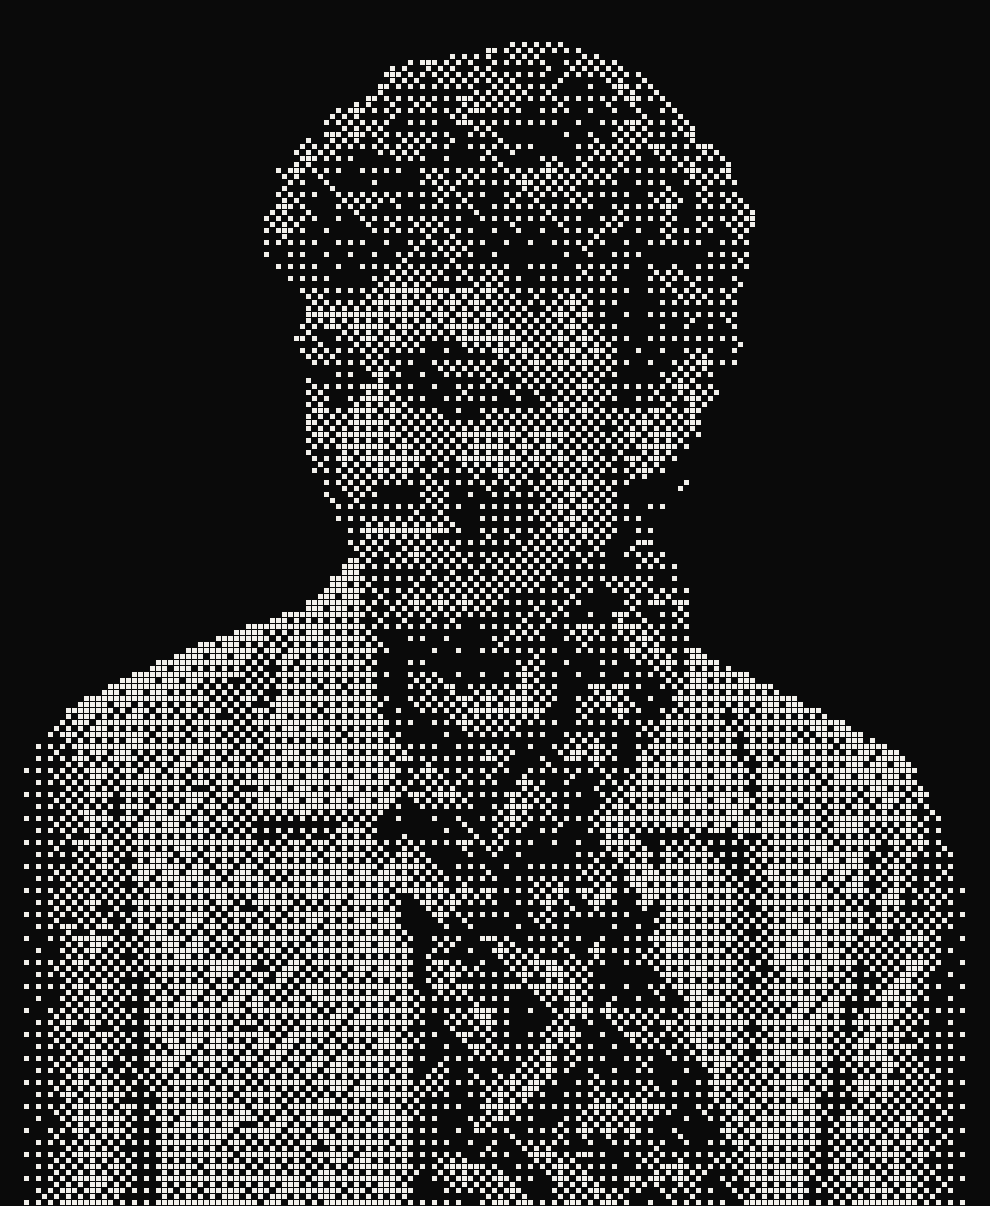
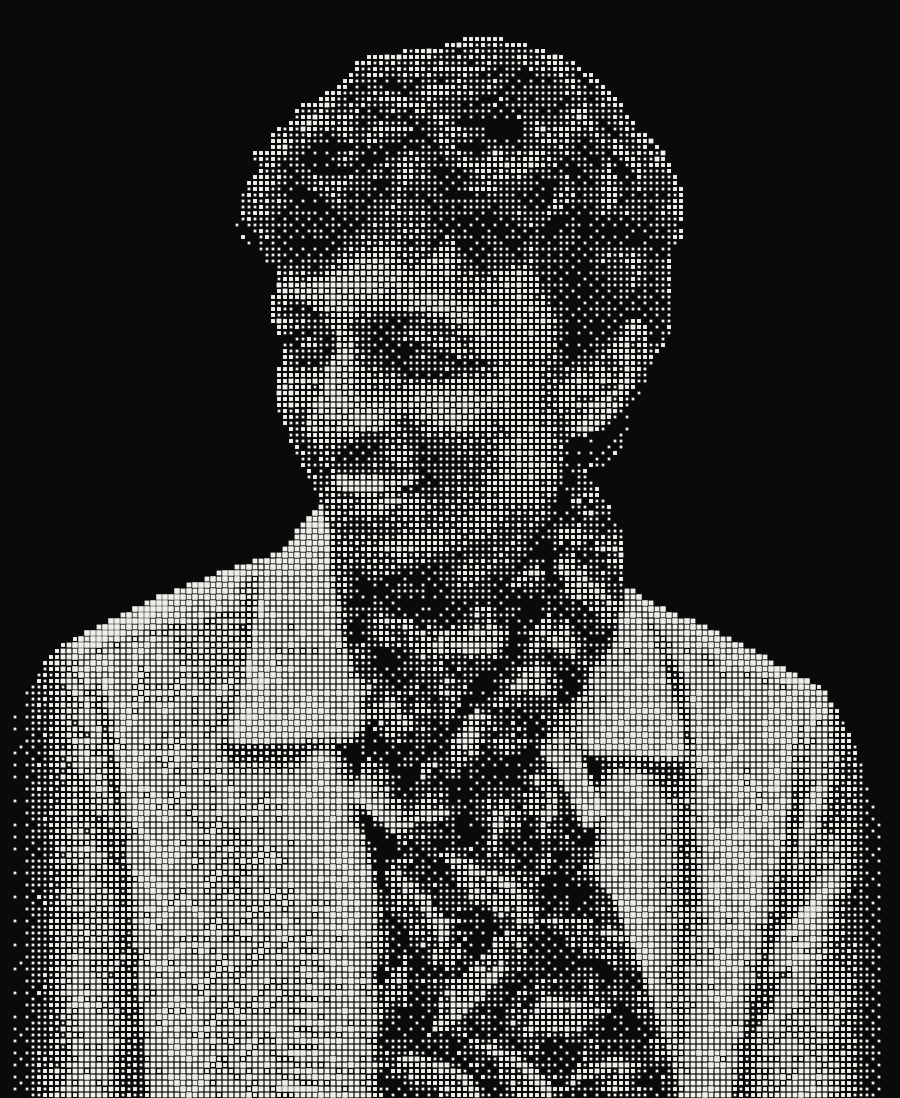
Portrait: sized squares (4 sizes) from the v2 tone mix; hero hover no longer reaches the held Work rows

diff --git a/js/portrait.js b/js/portrait.js
@@ -37,7 +37,7 @@ function buildGrid(cols, rows, img, bleed) {
   const t = new Float32Array(n);
   for (let i = 0; i < n; i++) { if (a[i] < .5) continue; const w = Math.max(ma[i], 1e-3), mu = ml[i] / w, sd = Math.sqrt(Math.max(mq[i] / w - mu * mu, 1e-4));
     const loc = Math.min(1, Math.max(0, 0.5 + (l[i] - mu) / (sd * 2.6)));
-    t[i] = 0.5 * loc + 0.35 * cdf(l[i]) + 0.15 * l[i]; }
+    t[i] = 0.35 * loc + 0.3 * cdf(l[i]) + 0.35 * l[i]; }
   const L = new Float32Array(cols * rows), A = new Float32Array(cols * rows);
   for (let j = 0; j < rows; j++) for (let i = 0; i < cols; i++) { let sl = 0, sa = 0; for (let v = 0; v < S; v++) for (let u = 0; u < S; u++) { const q = (j * S + v) * cw + i * S + u; sl += t[q] * a[q]; sa += a[q]; }
     const q = j * cols + i; A[q] = sa / (S * S); L[q] = sa > 0 ? sl / sa : 0;
@@ -54,7 +54,9 @@ function buildGrid(cols, rows, img, bleed) {
   });
   return { cols, rows, L, A, eyes };
 }
-const on = (L, r, c) => L > (BAYER[(r & 3) * 4 + (c & 3)] + 0.5) / 16;
+/* sized squares: tone plus an ordered offset, snapped to 4 sizes; the side is 0.92 cell * sqrt(q), 0 = nothing */
+const quant = (L, r, c) => Math.round(clamp(L + ((BAYER[(r & 3) * 4 + (c & 3)] + 0.5) / 16 - 0.5) * 0.25) * 4) / 4;
+const zOf = q => 0.92 * Math.sqrt(q);
 
 /* ------------------------------------------------------------------ geometry */
 let nameW100 = 0;
@@ -66,7 +68,7 @@ function measureName() {
 }
 function geometry(W, H, plain) {
   const mobile = W <= 760, dpr = Math.min(window.devicePixelRatio || 1, 2);
-  const cols = mobile ? 100 : 165, rows = Math.round(cols * SRC_H / SRC_W), pad = Math.max(20, Math.min(44, W * 0.031));
+  const cols = mobile ? 100 : 150, rows = Math.round(cols * SRC_H / SRC_W), pad = Math.max(20, Math.min(44, W * 0.031));
   let w = plain ? (mobile ? Math.min(W * 0.62, 300) : Math.min(W * 0.4, 520)) : mobile ? Math.min(W * 0.78, H * 0.4 * cols / rows) : Math.min(W * 0.4, (H - 150) * cols / rows);
   const cellDev = Math.max(2, Math.round(w * dpr / cols)), cell = cellDev / dpr; w = cols * cell;
   const h = rows * cell, g = { W, H, dpr, mobile, cols, rows, cell, cellDev, sqDev: cellDev - Math.max(1, Math.round(0.6 * dpr)), w, h, pad };
@@ -108,17 +110,17 @@ const ptr = { x: -1e5, y: -1e5, on: false, touch: false }; let ptrK = 0;
 
 function buildHero() {
   const P = buildGrid(g.cols, g.rows, IMG, !g.mobile), cell = g.cell, ox = Math.round(g.x / cell), oy = Math.round(g.y / cell);
-  const gc = Math.ceil(g.W / cell) + 4, xs = [], ys = [], vs = [], eyeF = [];
+  const gc = Math.ceil(g.W / cell) + 4, xs = [], ys = [], vs = [], eyeF = [], zs = [];
   const eyeSet = new Set(); P.eyes.forEach(e => e.cells.forEach(([r, c]) => eyeSet.add((r + oy) * gc + c + ox)));
   for (let r = 0; r < P.rows; r++) for (let c = 0; c < P.cols; c++) {
     const i = r * P.cols + c; if (P.A[i] < 0.5) continue;
-    const R = r + oy, C = c + ox; if (!on(P.L[i], R, C)) continue;
-    xs.push(C * cell); ys.push(R * cell); vs.push(P.L[i]); eyeF.push(eyeSet.has(R * gc + C) ? 1 : 0);
+    const R = r + oy, C = c + ox, q = quant(P.L[i], R, C); if (q <= 0) continue;
+    xs.push(C * cell); ys.push(R * cell); zs.push(zOf(q)); vs.push(P.L[i]); eyeF.push(eyeSet.has(R * gc + C) ? 1 : 0);
   }
   const nP = xs.length;
   const nm = nameOn ? rasterText(NAME, `600 ${g.fs}px "Inter Tight", system-ui, sans-serif`, `${-g.fs * 0.035}px`, g.cx, g.base, g.fs, 'center', measureName() * g.fs / 100, cell) : [];
-  for (let i = 0; i < nm.length; i += 2) { xs.push(nm[i] * cell); ys.push(nm[i + 1] * cell); vs.push(1); eyeF.push(0); }
-  const n = xs.length, h = { n, nP, x0: Float32Array.from(xs), y0: Float32Array.from(ys), v: Float32Array.from(vs), eye: Uint8Array.from(eyeF),
+  for (let i = 0; i < nm.length; i += 2) { xs.push(nm[i] * cell); ys.push(nm[i + 1] * cell); zs.push(0.92); vs.push(1); eyeF.push(0); }
+  const n = xs.length, h = { n, nP, z: Float32Array.from(zs), x0: Float32Array.from(xs), y0: Float32Array.from(ys), v: Float32Array.from(vs), eye: Uint8Array.from(eyeF),
     hash: new Float32Array(n), d: new Float32Array(n), tx: new Float32Array(n), ty: new Float32Array(n), trow: new Int8Array(n).fill(-1),
     fi: new Float32Array(n), fv: new Float32Array(n), flick: new Float32Array(n), segs: [] };
   let seed = 11; const rnd = () => { seed = (seed * 1664525 + 1013904223) >>> 0; return seed / 4294967296; };
@@ -149,7 +151,7 @@ function rowCells(li) {
 /* The Work section is held at its final on-screen position while the hand-over plays (it sits still under the pinned hero), so the
    glyph targets are exactly where the live DOM text is; it moves normally once the hand-over is done. */
 let shiftOn = '';
-function applyShift(sy) { const v = sy < T ? 'translate3d(0,' + (sy - T).toFixed(1) + 'px,0)' : ''; if (v !== shiftOn) { shiftOn = v; workEl.style.transform = v; } }
+function applyShift(sy) { const v = sy < T ? 'translate3d(0,' + (sy - T).toFixed(1) + 'px,0)' : ''; if (v !== shiftOn) { shiftOn = v; workEl.style.transform = v; workEl.style.pointerEvents = v ? 'none' : ''; } }
 function unshifted(fn) { const t = workEl.style.transform; workEl.style.transform = ''; try { return fn(); } finally { workEl.style.transform = t; } }
 const cellsFor = r => unshifted(() => r.isHead ? headCells() : rowCells(r.li));
 /* the heading, filter chips, count line and the list's top rule, as squares */
@@ -237,8 +239,8 @@ function fxPrepare() {
 function buildRest() {
   if (!rest) rest = document.createElement('canvas');
   rest.width = canvas.width; rest.height = canvas.height;
-  const c = rest.getContext('2d'), h = hero, dpr = g.dpr, sq = g.sqDev; c.fillStyle = FG; c.beginPath();
-  for (let i = 0; i < h.n; i++) c.rect(Math.round(h.x0[i] * dpr), Math.round(h.y0[i] * dpr), sq, sq);
+  const c = rest.getContext('2d'), h = hero, dpr = g.dpr, cd = g.cellDev; c.fillStyle = FG; c.beginPath();
+  for (let i = 0; i < h.n; i++) { const z = cd * h.z[i], o = (cd - z) / 2; c.rect(Math.round(h.x0[i] * dpr) + o, Math.round(h.y0[i] * dpr) + o, z, z); }
   c.fill(); restOK = true;
 }
 function addAct(i) { if (!inAct[i]) { inAct[i] = 1; act[actN++] = i; } }
@@ -293,14 +295,14 @@ function fastFrame(now, dt) {
   const lw = Math.max(1, cd * 0.2), half = cd * 0.42;
   for (let q = 0; q < X.length; q += 2) {
     const i = X[q], dropped = X[q + 1], x = h.x0[i], y = h.y0[i], ix = Math.round(x * dpr), iy = Math.round(y * dpr);
-    erase.rect(ix - 1, iy - 1, sq + 2, sq + 2);
+    erase.rect(ix - 1, iy - 1, cd + 2, cd + 2); const zs = cd * h.z[i], zo = (cd - zs) / 2;
     const mx0 = ix - cd * 4, my0 = iy - cd * 4, mx1 = ix + cd * 5, my1 = iy + cd * 5; if (mx0 < mnx) mnx = mx0; if (my0 < mny) mny = my0; if (mx1 > mxx) mxx = mx1; if (my1 > mxy) mxy = my1;
-    if (dropped) { sqs.rect(ix, iy, sq, sq); hasS = true; continue; }
+    if (dropped) { sqs.rect(ix + zo, iy + zo, zs, zs); hasS = true; continue; }
     if (blink && h.eye[i]) continue;
     const f = Math.max(f0[i], 0);
-    if (f < 0.02) { sqs.rect(ix, iy, sq, sq); hasS = true; continue; }
-    const hs = h.hash[i], ox = dirx[i] * f * cell * 1.8 * dpr, oy = diry[i] * f * cell * 1.8 * dpr, cx = ix + sq / 2 + ox, cy = iy + sq / 2 + oy;
-    if (f < 0.22) { const sz = sq * (1 - f * 3.2); if (sz > 0.5) { sqs.rect(cx - sz / 2, cy - sz / 2, sz, sz); hasS = true; } continue; }
+    if (f < 0.02) { sqs.rect(ix + zo, iy + zo, zs, zs); hasS = true; continue; }
+    const hs = h.hash[i], ox = dirx[i] * f * cell * 1.8 * dpr, oy = diry[i] * f * cell * 1.8 * dpr, cx = ix + cd / 2 + ox, cy = iy + cd / 2 + oy;
+    if (f < 0.22) { const sz = zs * (1 - f * 3.2); if (sz > 0.5) { sqs.rect(cx - sz / 2, cy - sz / 2, sz, sz); hasS = true; } continue; }
     const fs = Math.min(f, 1.2), sc = 1 + 0.8 * Math.min(fs, 1), rot = fs * (hs - 0.5) * 3.3, co = Math.cos(rot), si = Math.sin(rot), hh = half * sc;
     const score = h.v[i] * 0.7 + hs * 0.55, seg = (ax, ay, bx, by) => { lines.moveTo(cx + ax * co - ay * si, cy + ax * si + ay * co); lines.lineTo(cx + bx * co - by * si, cy + bx * si + by * co); hasL = true; };
     if (score > 1.0) { seg(-hh, -hh, hh, hh); seg(hh, -hh, -hh, hh); }
@@ -309,7 +311,7 @@ function fastFrame(now, dt) {
     else if (score > 0.4) { const r = hh * 0.85; fills.moveTo(cx + r * co, cy + r * si); fills.lineTo(cx - r * si, cy + r * co); fills.lineTo(cx - r * co, cy - r * si); fills.lineTo(cx + r * si, cy - r * co); fills.closePath(); hasF = true; }
     else { const r = hh * 0.42; fills.moveTo(cx + r, cy); fills.arc(cx, cy, r, 0, 6.2832); hasF = true; }
   }
-  if (blink) for (let q = 0; q < h.segs.length; q += 2) { const ix = Math.round(h.segs[q] * dpr), iy = Math.round(h.segs[q + 1] * dpr); lines.moveTo(ix, iy + sq / 2); lines.lineTo(ix + sq, iy + sq / 2); hasL = true; }
+  if (blink) for (let q = 0; q < h.segs.length; q += 2) { const ix = Math.round(h.segs[q] * dpr), iy = Math.round(h.segs[q + 1] * dpr); lines.moveTo(ix, iy + cd / 2); lines.lineTo(ix + cd, iy + cd / 2); hasL = true; }
   const cur = [Math.max(0, mnx), Math.max(0, mny), Math.min(canvas.width, mxx), Math.min(canvas.height, mxy)];
   if (mnx > mxx) cur[0] = cur[1] = cur[2] = cur[3] = 0;
   const U = prevU ? [Math.min(prevU[0], cur[0] || prevU[0]), Math.min(prevU[1], cur[1] || prevU[1]), Math.max(prevU[2], cur[2]), Math.max(prevU[3], cur[3])] : cur;
@@ -355,7 +357,7 @@ function frame(now) {
   if (p < 0.9999) {
     ctx.beginPath(); const glyphs = [];
     for (let i = 0; i < n; i++) {
-      let x = h.x0[i], yv = h.y0[i], size = sqDev, d = h.d[i];
+      let x = h.x0[i], yv = h.y0[i], size = cellDev * h.z[i], d = h.d[i];
       if (h.trow[i] !== -1) {
         /* along a curved path to the row target (neighbours bow the same way, so the squares move as streams) */
         const t = clamp((p - d) / LAND), e = ease(t);
@@ -386,7 +388,7 @@ function frame(now) {
       if (f > 0.25) { glyphs.push(x + cell / 2 + ox, vy + cell / 2 + oy, h.v[i], ((x / cell + yv / cell) | 0) & 1, f * (h.hash[i] - 0.5) * 4.4, Math.min(1, f * 1.4)); continue; }
       if (f > 0.02) size *= 1 - f * 1.6;
       if (size < 0.4) continue;
-      ctx.rect(Math.round((x + ox) * dpr) + (sqDev - size) / 2, Math.round((vy + oy) * dpr) + (sqDev - size) / 2, size, size);
+      ctx.rect(Math.round((x + ox) * dpr) + (cellDev - size) / 2, Math.round((vy + oy) * dpr) + (cellDev - size) / 2, size, size);
     }
     if (blink) for (let q = 0; q < h.segs.length; q += 2) glyphs.push(h.segs[q] + cell / 2, h.segs[q + 1] + cell / 2, 1, 2, 0, 1);
     ctx.fill();
@@ -473,7 +475,7 @@ async function startStatic() {
     const sg = geometry(innerWidth, innerHeight, true), P = buildGrid(sg.cols, sg.rows, im, false);
     canvas.width = sg.cols * sg.cellDev; canvas.height = sg.rows * sg.cellDev; canvas.style.width = sg.cols * sg.cell + 'px'; canvas.style.height = sg.rows * sg.cell + 'px';
     const c = canvas.getContext('2d'); c.fillStyle = FG;
-    for (let r = 0; r < P.rows; r++) for (let q = 0; q < P.cols; q++) { const i = r * P.cols + q; if (P.A[i] >= 0.5 && on(P.L[i], r, q)) c.fillRect(q * sg.cellDev, r * sg.cellDev, sg.sqDev, sg.sqDev); }
+    for (let r = 0; r < P.rows; r++) for (let q = 0; q < P.cols; q++) { const i = r * P.cols + q; if (P.A[i] < 0.5) continue; const qq = quant(P.L[i], r, q); if (qq <= 0) continue; const z = sg.cellDev * zOf(qq); c.fillRect(q * sg.cellDev + (sg.cellDev - z) / 2, r * sg.cellDev + (sg.cellDev - z) / 2, z, z); }
   };
   root.classList.add('pt'); draw();
   let rt; addEventListener('resize', () => { clearTimeout(rt); rt = setTimeout(draw, 150); });
@@ -481,9 +483,9 @@ async function startStatic() {
 
 /* a PNG of the 1-bit portrait for the no-JS <img>: window.__portraitPNG(cellPx) -> data URL */
 window.__portraitPNG = async cell => {
-  const im = await IMG_P, cols = 165, rows = Math.round(cols * SRC_H / SRC_W), P = buildGrid(cols, rows, im, true), cv = document.createElement('canvas');
+  const im = await IMG_P, cols = 150, rows = Math.round(cols * SRC_H / SRC_W), P = buildGrid(cols, rows, im, true), cv = document.createElement('canvas');
   cv.width = cols * cell; cv.height = rows * cell; const c = cv.getContext('2d'); c.fillStyle = '#0A0A0A'; c.fillRect(0, 0, cv.width, cv.height); c.fillStyle = FG;
-  for (let r = 0; r < rows; r++) for (let q = 0; q < cols; q++) { const i = r * cols + q; if (P.A[i] >= 0.5 && on(P.L[i], r, q)) c.fillRect(q * cell, r * cell, cell - 1, cell - 1); }
+  for (let r = 0; r < rows; r++) for (let q = 0; q < cols; q++) { const i = r * cols + q; if (P.A[i] < 0.5) continue; const qq = quant(P.L[i], r, q); if (qq <= 0) continue; const z = cell * zOf(qq); c.fillRect(q * cell + (cell - z) / 2, r * cell + (cell - z) / 2, z, z); }
   return cv.toDataURL('image/png');
 };
 

diff --git a/index.html b/index.html
@@ -184,7 +184,7 @@
 <main id="top">
   <div class="hero-run">
   <section class="hero" aria-label="Introduction">
-    <img class="portrait-img" id="portrait-img" src="assets/portrait-glyphs.png" width="990" height="1206" alt="Sibhimanyu, drawn in dots and crosses" />
+    <img class="portrait-img" id="portrait-img" src="assets/portrait-glyphs.png" width="900" height="1098" alt="Sibhimanyu, drawn in dots and crosses" />
     <canvas id="portrait" role="img" aria-label="Sibhimanyu, drawn in dots and crosses"></canvas>
     <h1>Sibhimanyu</h1>
     <div class="hero-ov">
